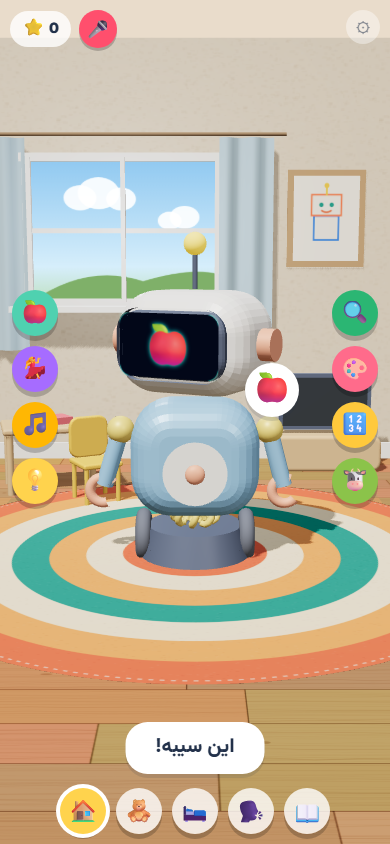
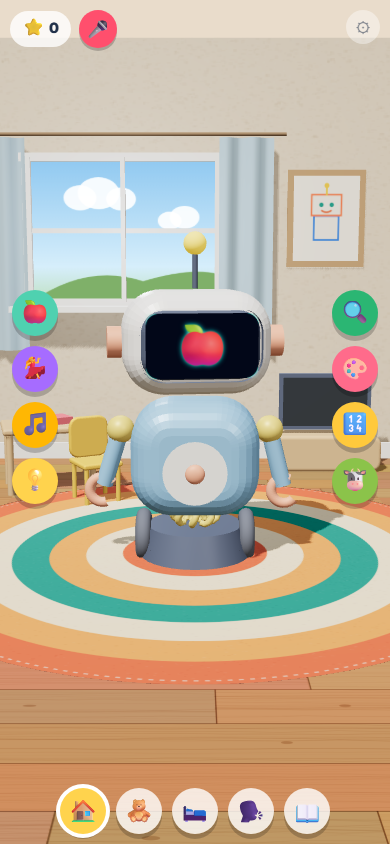
Picture bubble: never shown with the face picture, hides when he wakes; real tall-robot sim shot

diff --git a/index.html b/index.html
@@ -287,6 +287,7 @@ const pbub=document.getElementById('pbub');let pbT,facePic='';
 function say(k){k=pickVar(k);lastSaid=k;try{statHeard(k)}catch(e){}hush(1600);const fa=(LINES[k]||[''])[0],pic=picFor(k);
   if(document.body.classList.contains('words')&&fa){document.getElementById('bfa').textContent=fa;bubble.classList.add('show')}
   const go=()=>{const dur=playVoice(k),ms=Math.max(1500,(dur+.4)*1000);if(dur){mouthT=performance.now()+dur*1000;hush(dur*1000+600)}
+    clearTimeout(pbT);pbub.classList.remove('show'); // never two pictures at once
     if(pic){ // the picture goes on his face screen; tiny round bubble beside his head only when the screen is hidden or he sleeps
       if(st.mode==='sleep'||st.mode==='peek'||face==='hidden'){const v=new THREE.Vector3();head.getWorldPosition(v);v.project(camera);
         pbub.textContent=pic;pbub.style.left=Math.min(innerWidth-60,(v.x+1)/2*innerWidth+50)+'px';pbub.style.top=Math.max(8,(1-v.y)/2*innerHeight-40)+'px';pbub.classList.add('show');clearTimeout(pbT);pbT=setTimeout(()=>pbub.classList.remove('show'),ms)}
@@ -1348,6 +1349,7 @@ function loop(){
     else{p.v.y+=p.g*dt;p.s.position.addScaledVector(p.v,dt)}
     p.s.scale.multiplyScalar(1+p.grow*dt);p.s.material.opacity=1-Math.pow(p.life/p.max,3);
     if(p.life>p.max){scene.remove(p.s);p.s.material.dispose();parts.splice(i,1)}}
+  if(pbub.classList.contains('show')&&st.mode!=='sleep'&&st.mode!=='peek'&&face!=='hidden')pbub.classList.remove('show'); // he woke up: bubble goes
   if(now>faceUntil&&face!=='happy'&&st.mode!=='sleep'&&st.mode!=='listen'&&!(st.mode==='peek'&&face==='hidden'))face='happy';
   nextBlink-=dt;if(nextBlink<0){blink=.12;nextBlink=2+Math.random()*3}blink-=dt;
   if(talk.an){const b=talk.buf||(talk.buf=new Float32Array(talk.an.fftSize));talk.an.getFloatTimeDomainData(b);let q=0;for(const v of b)q+=v*v;talk.level=Math.sqrt(q/b.length)}

diff --git a/src_pash-robot.html b/src_pash-robot.html
@@ -286,6 +286,7 @@ const pbub=document.getElementById('pbub');let pbT,facePic='';
 function say(k){k=pickVar(k);lastSaid=k;try{statHeard(k)}catch(e){}hush(1600);const fa=(LINES[k]||[''])[0],pic=picFor(k);
   if(document.body.classList.contains('words')&&fa){document.getElementById('bfa').textContent=fa;bubble.classList.add('show')}
   const go=()=>{const dur=playVoice(k),ms=Math.max(1500,(dur+.4)*1000);if(dur){mouthT=performance.now()+dur*1000;hush(dur*1000+600)}
+    clearTimeout(pbT);pbub.classList.remove('show'); // never two pictures at once
     if(pic){ // the picture goes on his face screen; tiny round bubble beside his head only when the screen is hidden or he sleeps
       if(st.mode==='sleep'||st.mode==='peek'||face==='hidden'){const v=new THREE.Vector3();head.getWorldPosition(v);v.project(camera);
         pbub.textContent=pic;pbub.style.left=Math.min(innerWidth-60,(v.x+1)/2*innerWidth+50)+'px';pbub.style.top=Math.max(8,(1-v.y)/2*innerHeight-40)+'px';pbub.classList.add('show');clearTimeout(pbT);pbT=setTimeout(()=>pbub.classList.remove('show'),ms)}
@@ -1347,6 +1348,7 @@ function loop(){
     else{p.v.y+=p.g*dt;p.s.position.addScaledVector(p.v,dt)}
     p.s.scale.multiplyScalar(1+p.grow*dt);p.s.material.opacity=1-Math.pow(p.life/p.max,3);
     if(p.life>p.max){scene.remove(p.s);p.s.material.dispose();parts.splice(i,1)}}
+  if(pbub.classList.contains('show')&&st.mode!=='sleep'&&st.mode!=='peek'&&face!=='hidden')pbub.classList.remove('show'); // he woke up: bubble goes
   if(now>faceUntil&&face!=='happy'&&st.mode!=='sleep'&&st.mode!=='listen'&&!(st.mode==='peek'&&face==='hidden'))face='happy';
   nextBlink-=dt;if(nextBlink<0){blink=.12;nextBlink=2+Math.random()*3}blink-=dt;
   if(talk.an){const b=talk.buf||(talk.buf=new Float32Array(talk.an.fftSize));talk.an.getFloatTimeDomainData(b);let q=0;for(const v of b)q+=v*v;talk.level=Math.sqrt(q/b.length)}

diff --git a/sw.js b/sw.js
@@ -1,6 +1,6 @@
 // Googoo Robo service worker. tools/build.py rewrites the two versions below on every build:
 // a new page build = new shell cache, new/changed audio = new audio cache; old caches are deleted on activate.
-const SHELL_V='0a7a990403',AUDIO_V='92904cdb22',SHELL='googoo-shell-'+SHELL_V,AUDIO='googoo-audio-'+AUDIO_V;
+const SHELL_V='8d4f186c9f',AUDIO_V='92904cdb22',SHELL='googoo-shell-'+SHELL_V,AUDIO='googoo-audio-'+AUDIO_V;
 const PRE=['./','manifest.webmanifest','icons/icon-192.png','icons/icon-512.png','icons/apple-touch-icon.png','audio/manifest.json','vocab/stories.json',
   'https://cdnjs.cloudflare.com/ajax/libs/three.js/r128/three.min.js',
   'https://fonts.googleapis.com/css2?family=Baloo+2:wght@600;800&family=Vazirmatn:wght@600;800&display=swap'];
